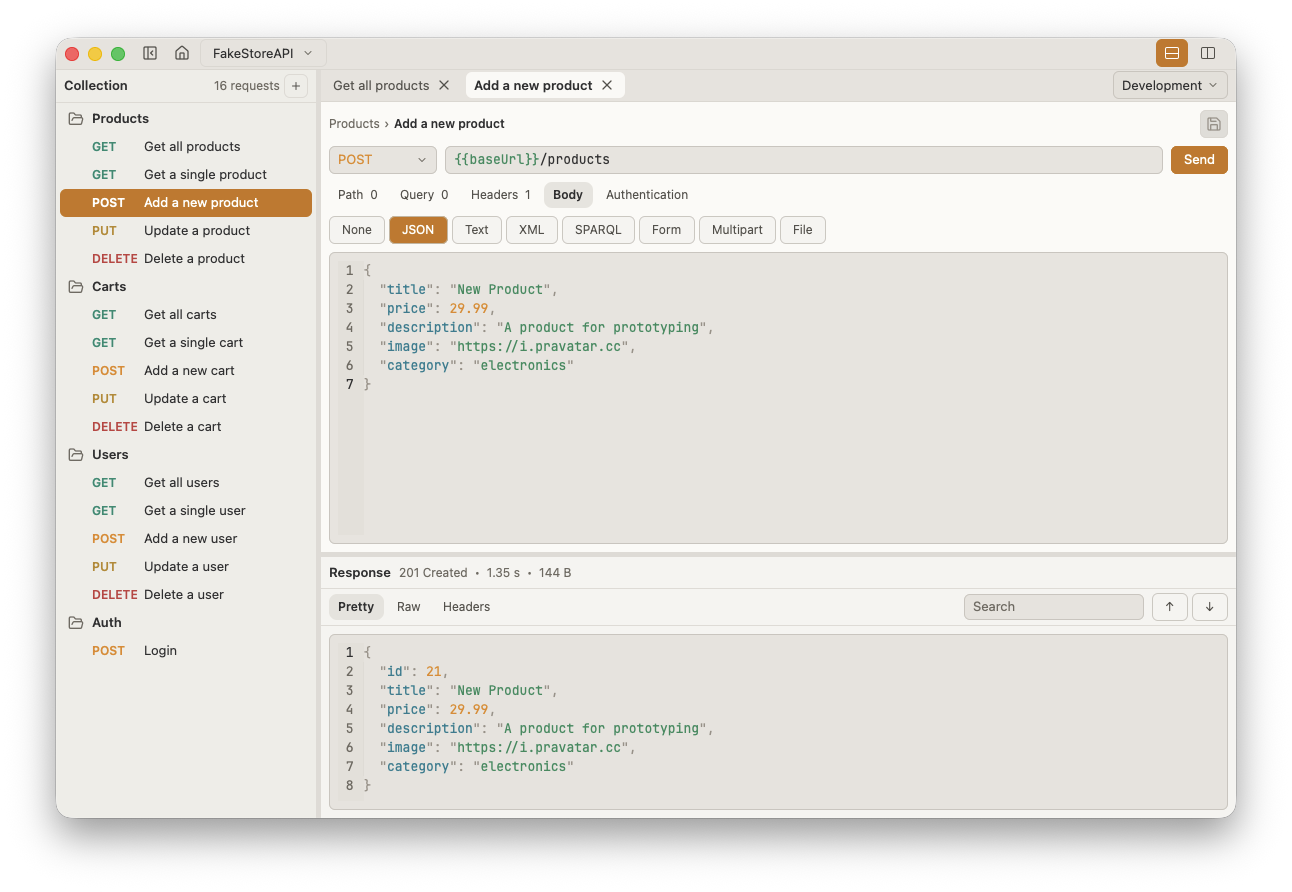
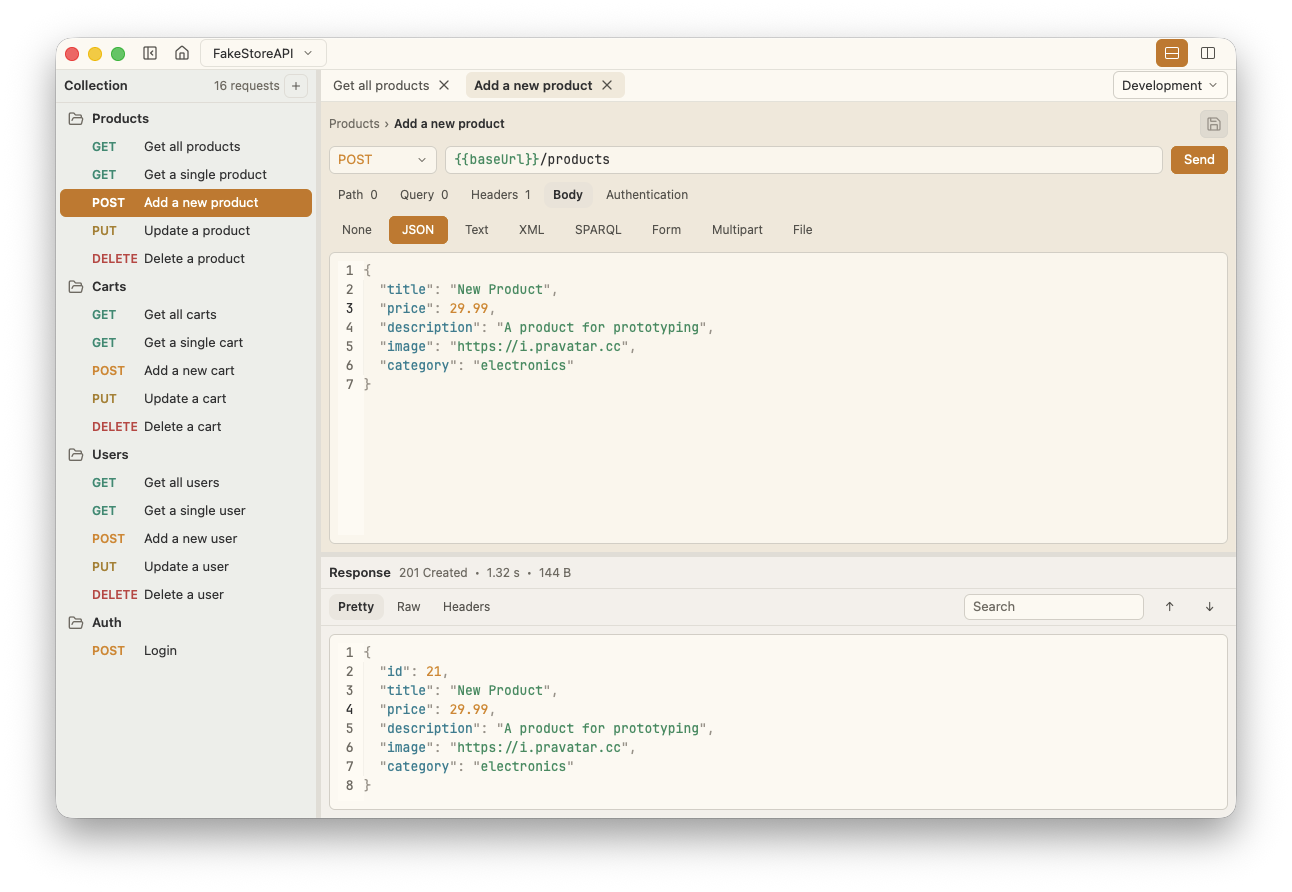
feat: theme update

Changed region(s): [[0.2477, 0.0605, 0.9598, 0.6357], [0.2477, 0.6962, 0.2786, 0.9081]]

diff --git a/crates/desktop/src/theme.rs b/crates/desktop/src/theme.rs
@@ -201,7 +201,7 @@ impl Theme {
     pub fn editor_selection(self) -> Hsla {
         match self.appearance {
             ThemeAppearance::Light => hsla(0.092, 0.767, 0.500, 0.25),
-            ThemeAppearance::Dark => hsla(0.603, 0.919, 0.759, 0.30),
+            ThemeAppearance::Dark => hsla(0.098, 0.858, 0.580, 0.24),
         }
     }
 
@@ -326,11 +326,11 @@ impl Theme {
 fn porcelain_honey() -> Colors {
     Colors {
         surfaces: SurfaceColors {
-            window: rgba(0xf5f4f1ff),  // porcelain cream
-            sidebar: rgba(0xedece7e6), // quiet shell
-            editor: rgba(0xfbfaf7f2),  // paper
-            raised: rgba(0xe3dfd8cc),  // porcelain shadow
-            overlay: rgba(0xfffefbe6), // porcelain glaze
+            window: rgba(0xf3f0eaff),  // sunlit alabaster
+            sidebar: rgba(0xebedeacc), // cool stone navigation
+            editor: rgba(0xf0e7d7e8),  // warm ivory paper
+            raised: rgba(0xfffcf4b8),  // bright raised control
+            overlay: rgba(0xfffcf6de), // ivory overlay
             scrim: rgba(0x00000059),   // black @ ~35%
         },
         text: TextColors {
@@ -341,34 +341,34 @@ fn porcelain_honey() -> Colors {
             inverse: rgba(0xffffffff),     // on-accent
         },
         borders: BorderColors {
-            subtle: rgba(0xd7d3ccbf),   // porcelain edge
-            standard: rgba(0xc5c0b8d9), // light warm divider
-            strong: rgba(0xa49d93e6),   // grounded divider
-            focused: rgba(0xe3871eff),  // golden orange
+            subtle: rgba(0xd6d2c9a0),   // alabaster edge
+            standard: rgba(0xc3beb4b8), // light stone divider
+            strong: rgba(0xa39a8fd0),   // grounded divider
+            focused: rgba(0xc8751880),  // quiet orange focus
         },
         actions: ActionColors {
             accent: rgba(0xc87518ff),              // filled golden orange
             hover: rgba(0xb86d18ff),               // burnished orange
             pressed: rgba(0x965714ff),             // deep golden orange
-            disabled: rgba(0xd7d3ccbf),            // porcelain edge
+            disabled: rgba(0xd6d2c9a0),            // alabaster edge
             disabled_foreground: rgba(0x989187ff), // stone
         },
         selection: SelectionColors {
             active_background: rgba(0xc87518ff),   // filled golden orange
             active_foreground: rgba(0xffffffff),   // on-accent
-            inactive_background: rgba(0xe0ddd6bf), // porcelain edge
+            inactive_background: rgba(0xe7e1d7a6), // parchment wash
             inactive_foreground: rgba(0x2f2f30ff), // icon graphite
         },
         status: StatusColors {
             success: rgba(0x2d8a5bff),       // jade
-            warning: rgba(0xe3871eff),       // golden orange
+            warning: rgba(0xd9821cff),       // burnt amber
             error: rgba(0xc43d3dff),         // red
             informational: rgba(0x227c8fff), // blue teal
         },
         methods: MethodColors {
             get: rgba(0x1f8a70ff),    // teal
-            post: rgba(0xe3871eff),   // golden orange
-            put: rgba(0xb88725ff),    // light brown
+            post: rgba(0xd9821cff),   // burnt amber
+            put: rgba(0xaa7d24ff),    // light brown
             patch: rgba(0x7c5bbdff),  // violet
             delete: rgba(0xc43d3dff), // red
             other: rgba(0x7a7469ff),  // warm gray
@@ -376,15 +376,15 @@ fn porcelain_honey() -> Colors {
         responses: ResponseColors {
             informational: rgba(0x227c8fff), // blue teal
             success: rgba(0x2d8a5bff),       // jade
-            redirect: rgba(0xb88725ff),      // light brown
-            client_error: rgba(0xe3871eff),  // golden orange
+            redirect: rgba(0xaa7d24ff),      // light brown
+            client_error: rgba(0xd9821cff),  // burnt amber
             server_error: rgba(0xc43d3dff),  // red
         },
         syntax: SyntaxColors {
             plain: rgba(0x2f2f30ff),       // icon graphite
             property: rgba(0x227c8fff),    // blue teal
             string: rgba(0x2d8a5bff),      // jade
-            number: rgba(0xe3871eff),      // golden orange
+            number: rgba(0xd9821cff),      // burnt amber
             boolean: rgba(0x7c5bbdff),     // violet
             null: rgba(0x7a7469ff),        // warm gray
             punctuation: rgba(0x989187ff), // stone
@@ -396,49 +396,49 @@ fn porcelain_honey() -> Colors {
 fn graphite_honey() -> Colors {
     Colors {
         surfaces: SurfaceColors {
-            window: rgba(0x18191bff),  // graphite
-            sidebar: rgba(0x111214e6), // deep graphite
-            editor: rgba(0x1f2022f2),  // soft graphite
-            raised: rgba(0x282a2ecc),  // lifted graphite
-            overlay: rgba(0x2f3035e6), // graphite overlay
+            window: rgba(0x151618ff),  // deep carbon
+            sidebar: rgba(0x101113cc), // charcoal navigation
+            editor: rgba(0x1d1d1ee8),  // graphite editor
+            raised: rgba(0x27282db8),  // lifted graphite
+            overlay: rgba(0x2b2c31de), // dark metal overlay
             scrim: rgba(0x00000070),   // black @ ~44%
         },
         text: TextColors {
-            primary: rgba(0xece9e3ff),     // porcelain text
-            secondary: rgba(0xd0cbc3ff),   // soft text
-            muted: rgba(0xada8a1ff),       // muted porcelain
-            placeholder: rgba(0x85817bff), // stone
-            inverse: rgba(0x18191bff),     // on-accent
+            primary: rgba(0xe9e6e0ff),     // soft off-white
+            secondary: rgba(0xcac5bdff),   // muted text
+            muted: rgba(0xa7a19aff),       // graphite text
+            placeholder: rgba(0x807c76ff), // stone
+            inverse: rgba(0x151618ff),     // on-accent
         },
         borders: BorderColors {
-            subtle: rgba(0x35373cbf),   // graphite edge
-            standard: rgba(0x47494fd9), // graphite divider
-            strong: rgba(0x62646be6),   // grounded divider
-            focused: rgba(0xf0a338ff),  // golden orange
+            subtle: rgba(0x33353aa6),   // graphite edge
+            standard: rgba(0x45474dc2), // graphite divider
+            strong: rgba(0x606268d9),   // grounded divider
+            focused: rgba(0xd98e2699),  // quiet orange focus
         },
         actions: ActionColors {
             accent: rgba(0xd98e26ff),              // filled golden orange
             hover: rgba(0xf0a338ff),               // bright golden orange
             pressed: rgba(0xb97620ff),             // deep golden orange
-            disabled: rgba(0x35373cbf),            // graphite edge
-            disabled_foreground: rgba(0x85817bff), // stone
+            disabled: rgba(0x33353aa6),            // graphite edge
+            disabled_foreground: rgba(0x807c76ff), // stone
         },
         selection: SelectionColors {
             active_background: rgba(0xd98e26ff),   // filled golden orange
-            active_foreground: rgba(0x18191bff),   // graphite
-            inactive_background: rgba(0x35373cbf), // graphite edge
-            inactive_foreground: rgba(0xece9e3ff), // porcelain text
+            active_foreground: rgba(0x151618ff),   // carbon
+            inactive_background: rgba(0x33353aa6), // graphite edge
+            inactive_foreground: rgba(0xe9e6e0ff), // soft off-white
         },
         status: StatusColors {
             success: rgba(0x79d19aff),       // jade
-            warning: rgba(0xf0a338ff),       // golden orange
+            warning: rgba(0xe39a32ff),       // burnt amber
             error: rgba(0xff7f7fff),         // red
             informational: rgba(0x75c6d4ff), // blue teal
         },
         methods: MethodColors {
             get: rgba(0x72d6c2ff),    // teal
-            post: rgba(0xf0a338ff),   // golden orange
-            put: rgba(0xd8b15cff),    // light brown
+            post: rgba(0xe39a32ff),   // burnt amber
+            put: rgba(0xcaa95fff),    // light brown
             patch: rgba(0xb89af7ff),  // violet
             delete: rgba(0xff7f7fff), // red
             other: rgba(0xa6a39eff),  // warm gray
@@ -446,15 +446,15 @@ fn graphite_honey() -> Colors {
         responses: ResponseColors {
             informational: rgba(0x75c6d4ff), // blue teal
             success: rgba(0x79d19aff),       // jade
-            redirect: rgba(0xd8b15cff),      // light brown
-            client_error: rgba(0xf0a338ff),  // golden orange
+            redirect: rgba(0xcaa95fff),      // light brown
+            client_error: rgba(0xe39a32ff),  // burnt amber
             server_error: rgba(0xff7f7fff),  // red
         },
         syntax: SyntaxColors {
-            plain: rgba(0xece9e3ff),       // porcelain text
+            plain: rgba(0xe9e6e0ff),       // soft off-white
             property: rgba(0x75c6d4ff),    // blue teal
             string: rgba(0x79d19aff),      // jade
-            number: rgba(0xf0a338ff),      // golden orange
+            number: rgba(0xe39a32ff),      // burnt amber
             boolean: rgba(0xb89af7ff),     // violet
             null: rgba(0xa6a39eff),        // warm gray
             punctuation: rgba(0x85817bff), // stone

diff --git a/crates/desktop/src/components.rs b/crates/desktop/src/components.rs
@@ -1148,18 +1148,22 @@ fn editor_button_base(
             theme.colors.text.secondary
         })
         .bg(if selected {
-            theme.colors.selection.active_background
+            theme.colors.selection.active_background.into()
         } else {
-            theme.colors.surfaces.window
+            transparent_black()
         })
         .border_1()
-        .border_color(theme.colors.borders.standard)
+        .border_color(if selected {
+            theme.colors.selection.active_background.into()
+        } else {
+            transparent_black()
+        })
         .cursor_pointer()
         .hover(move |button| {
             if selected {
                 button
             } else {
-                button.bg(theme.colors.surfaces.raised)
+                button.bg(theme.colors.selection.inactive_background)
             }
         })
         .focus(move |button| button.border_color(theme.colors.borders.focused))
@@ -1245,9 +1249,9 @@ pub(crate) fn remove_row_button(
         .items_center()
         .justify_center()
         .rounded(px(theme.metrics.radius_small))
-        .bg(theme.colors.surfaces.raised)
+        .bg(transparent_black())
         .border_1()
-        .border_color(theme.colors.borders.standard)
+        .border_color(transparent_black())
         .cursor_pointer()
         .hover(move |button| button.bg(theme.colors.selection.inactive_background))
         .focus(move |button| button.border_color(theme.colors.borders.focused))
@@ -1270,9 +1274,9 @@ pub(crate) fn browse_file_button(
         .items_center()
         .justify_center()
         .rounded(px(theme.metrics.radius_small))
-        .bg(theme.colors.surfaces.raised)
+        .bg(transparent_black())
         .border_1()
-        .border_color(theme.colors.borders.standard)
+        .border_color(transparent_black())
         .cursor_pointer()
         .hover(move |button| button.bg(theme.colors.selection.inactive_background))
         .focus(move |button| button.border_color(theme.colors.borders.focused))
